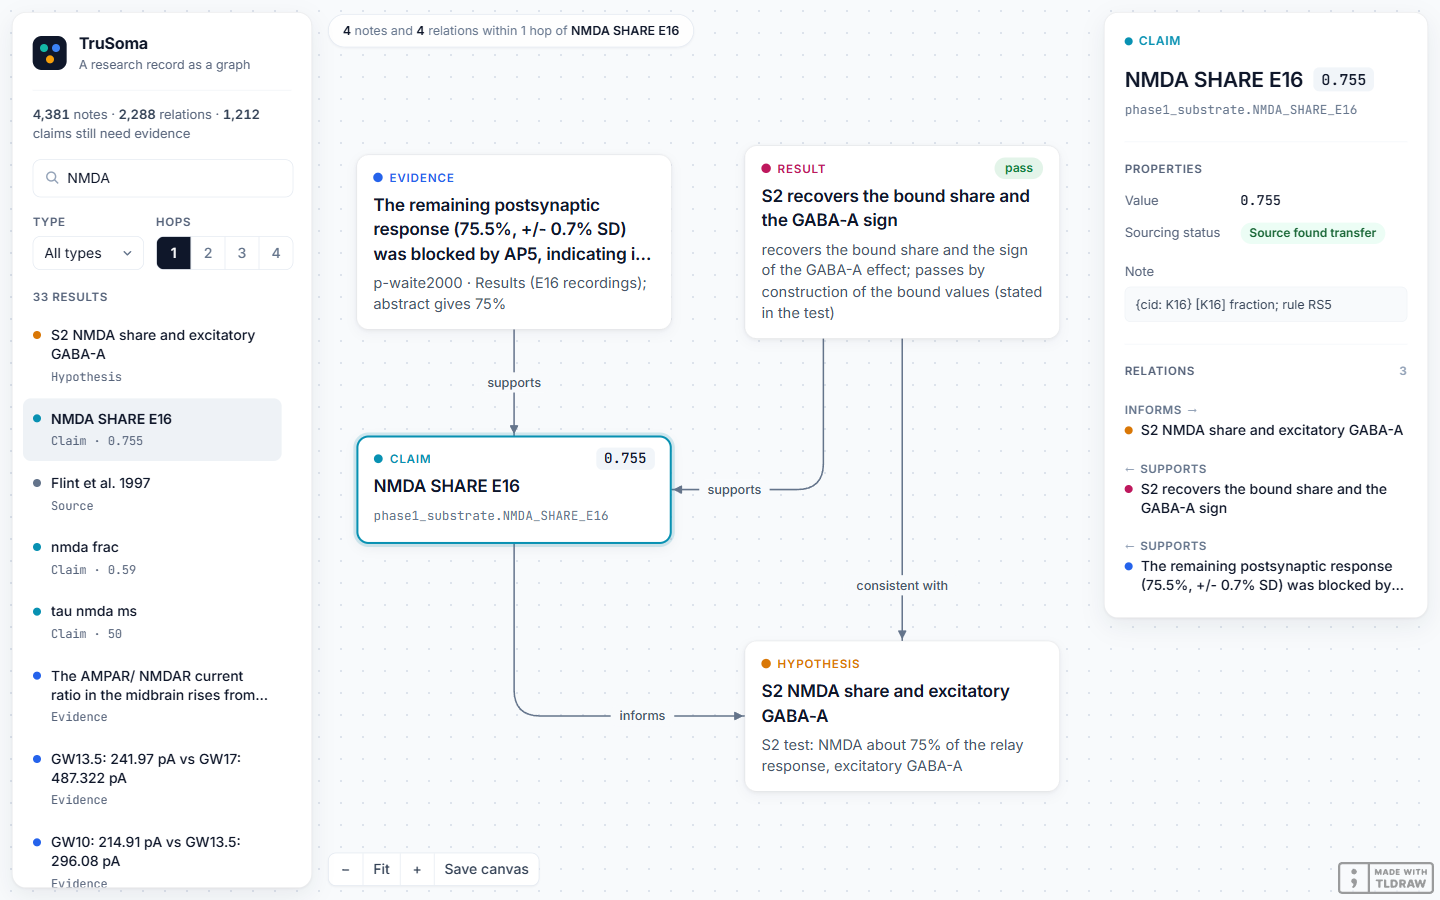
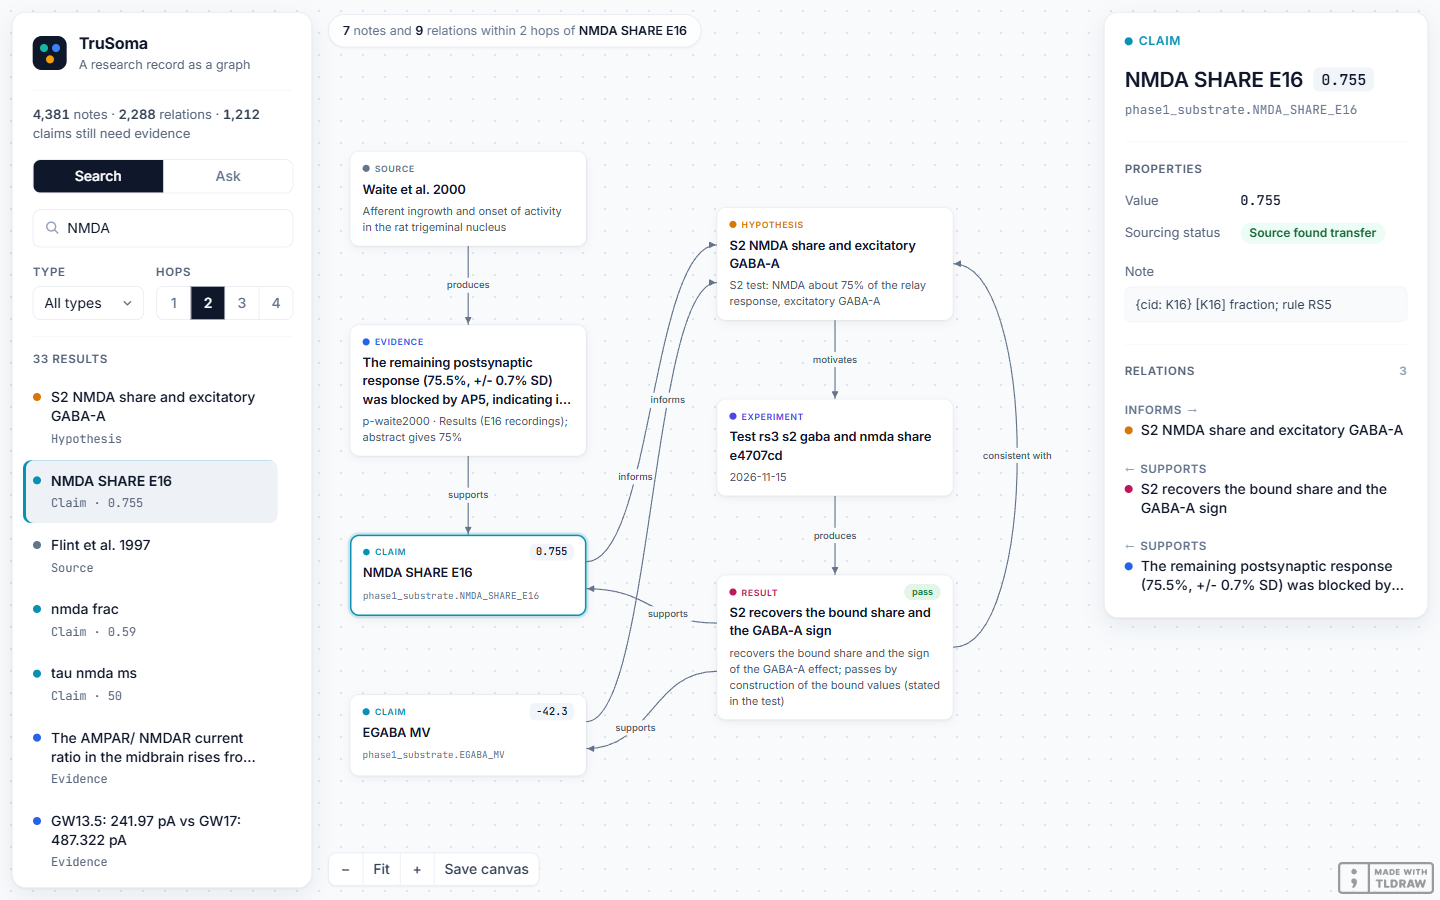
Screenshots retaken with the Ask tab; comments corrected

diff --git a/demo/packages/graph/src/tools.ts b/demo/packages/graph/src/tools.ts
@@ -452,7 +452,7 @@ const PREFIX: Record<string, string> = {
   Result: "RES - ",
 };
 /**
- * Write one probe-record note (Question, Hypothesis, Experiment or Result) into the vault through tools/dm/value_add.py, then run the check.
+ * Write one probe-record note (Question, Hypothesis, Experiment or Result) into the vault (write.ts, after the zod validator in validate.ts), then load the vault again and check the whole graph.
  * The validator refuses a quote that is not verbatim in the named record file, a value on such a note, and a link that does not resolve.
  * When it refuses, the note is removed and the generated files are restored, so a refused write leaves no trace.
  */

diff --git a/demo/apps/canvas/src/App.tsx b/demo/apps/canvas/src/App.tsx
@@ -212,9 +212,9 @@ const saveCanvasFile = (editor: Editor, name: string): void => {
   URL.revokeObjectURL(link.href);
 };
 
-/** Show the whole drawing, never larger than life size (a single card would otherwise fill the view). */
 /** The width each floating panel takes from the view, with its margin (the two TW_PANEL elements in App). */
 const PANEL = { left: 324, right: 348 };
+/** Show the whole drawing between the panels, at most 1.2 times life size (a single card would otherwise fill the view). */
 const fit = (editor: Editor): void => {
   const ids = editor
     .getCurrentPageShapes()

diff --git a/demo/apps/canvas/src/graph.ts b/demo/apps/canvas/src/graph.ts
@@ -1,4 +1,4 @@
-/** The static graph the canvas reads, and the two queries it needs: search, and the neighbourhood of one node laid out in columns by node type. */
+/** The static graph the canvas reads, and the two queries it needs: search, and the neighbourhood of one node with its layout (two tracks for a small one, ranks by node type for a larger one; see arrange). */
 export type GNode = {
   uid: string;
   type: string;

diff --git a/README.md b/README.md
@@ -23,6 +23,8 @@ A model of development is only as good as the numbers in it, and a number with n
 | Obsidian round trip | "Save canvas" writes a canvas file that the Discourse Graphs Obsidian plugin opens, with every card linked back to its note | [`demo/docs`](demo/docs) |
 | Database load | The vault as rows for the Discourse Graphs Supabase schema | [`demo/packages/graph`](demo/packages/graph) |
 
+![A question over the graph, with its first answer drawn](demo/docs/canvas-ask.png)
+
 ## Try it
 
 Nothing needs installing: open the [live page](https://kootru-repo.github.io/trusoma-discourse-graph/), search for a note, and widen its neighbourhood from 1 to 4 hops. The Ask tab answers questions such as which model values are backed by a quoted source.
